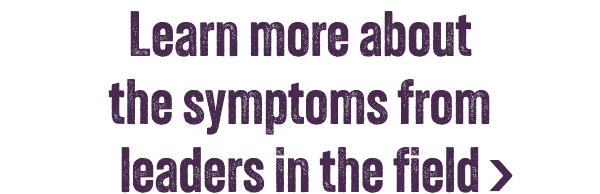
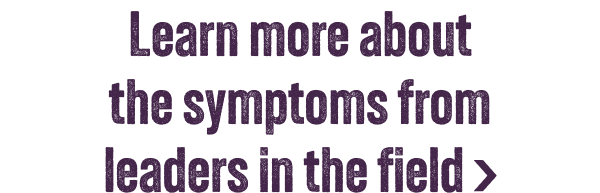
carat alignment fix

diff --git a/banners6/093026_Catalyst-Burden_HTML5_CAL-0169-1_300x600/093026_Catalyst-Burden_HTML5_CAL-0169-1_300x600.html b/banners6/093026_Catalyst-Burden_HTML5_CAL-0169-1_300x600/093026_Catalyst-Burden_HTML5_CAL-0169-1_300x600.html
@@ -105,7 +105,6 @@
 
     <img id="f4rock" src="img/f4-rock.png" alt="">
     <img id="f4head" src="img/f4-head.png" alt="Learn more about the symptoms from leaders in the field">
-    <img id="f4chev" src="img/f4-chev.svg" alt="">
     <img id="f4legal" src="img/f4-legal.svg" alt="© 2026 Catalyst Pharmaceuticals, Inc. All Rights Reserved. CAL-0169-1 September 2026">
 
     <div id="bg-exit" onclick="exitHandler()"></div>
@@ -164,7 +163,7 @@
     tl.to('#f4rock', { y: 6, duration: 0.08, yoyo: true, repeat: 1, ease: 'power2.out' }, 12.17);
 
     // FRAME 4 — headline, then the legal line
-    tl.to(['#f4head', '#f4chev'], { opacity: 1, duration: 0.35, ease: 'power1.out' }, 12.3);
+    tl.to('#f4head', { opacity: 1, duration: 0.35, ease: 'power1.out' }, 12.3);
     tl.to('#f4legal', { opacity: 1, duration: 0.35, ease: 'power1.out' }, 12.6);
 
   }

diff --git a/banners6/093026_Catalyst-Burden_HTML5_CAL-0169-1_336x280/093026_Catalyst-Burden_HTML5_CAL-0169-1_336x280.html b/banners6/093026_Catalyst-Burden_HTML5_CAL-0169-1_336x280/093026_Catalyst-Burden_HTML5_CAL-0169-1_336x280.html
@@ -106,7 +106,6 @@
 
     <img id="f4rock" src="img/f4-rock.png" alt="">
     <img id="f4head" src="img/f4-head.png" alt="Learn more about the symptoms from leaders in the field">
-    <img id="f4chev" src="img/f4-chev.svg" alt="">
     <img id="f4legal" src="img/f4-legal.svg" alt="© 2026 Catalyst Pharmaceuticals, Inc. All Rights Reserved. CAL-0169-1 September 2026">
 
     <div id="bg-exit" onclick="exitHandler()"></div>
